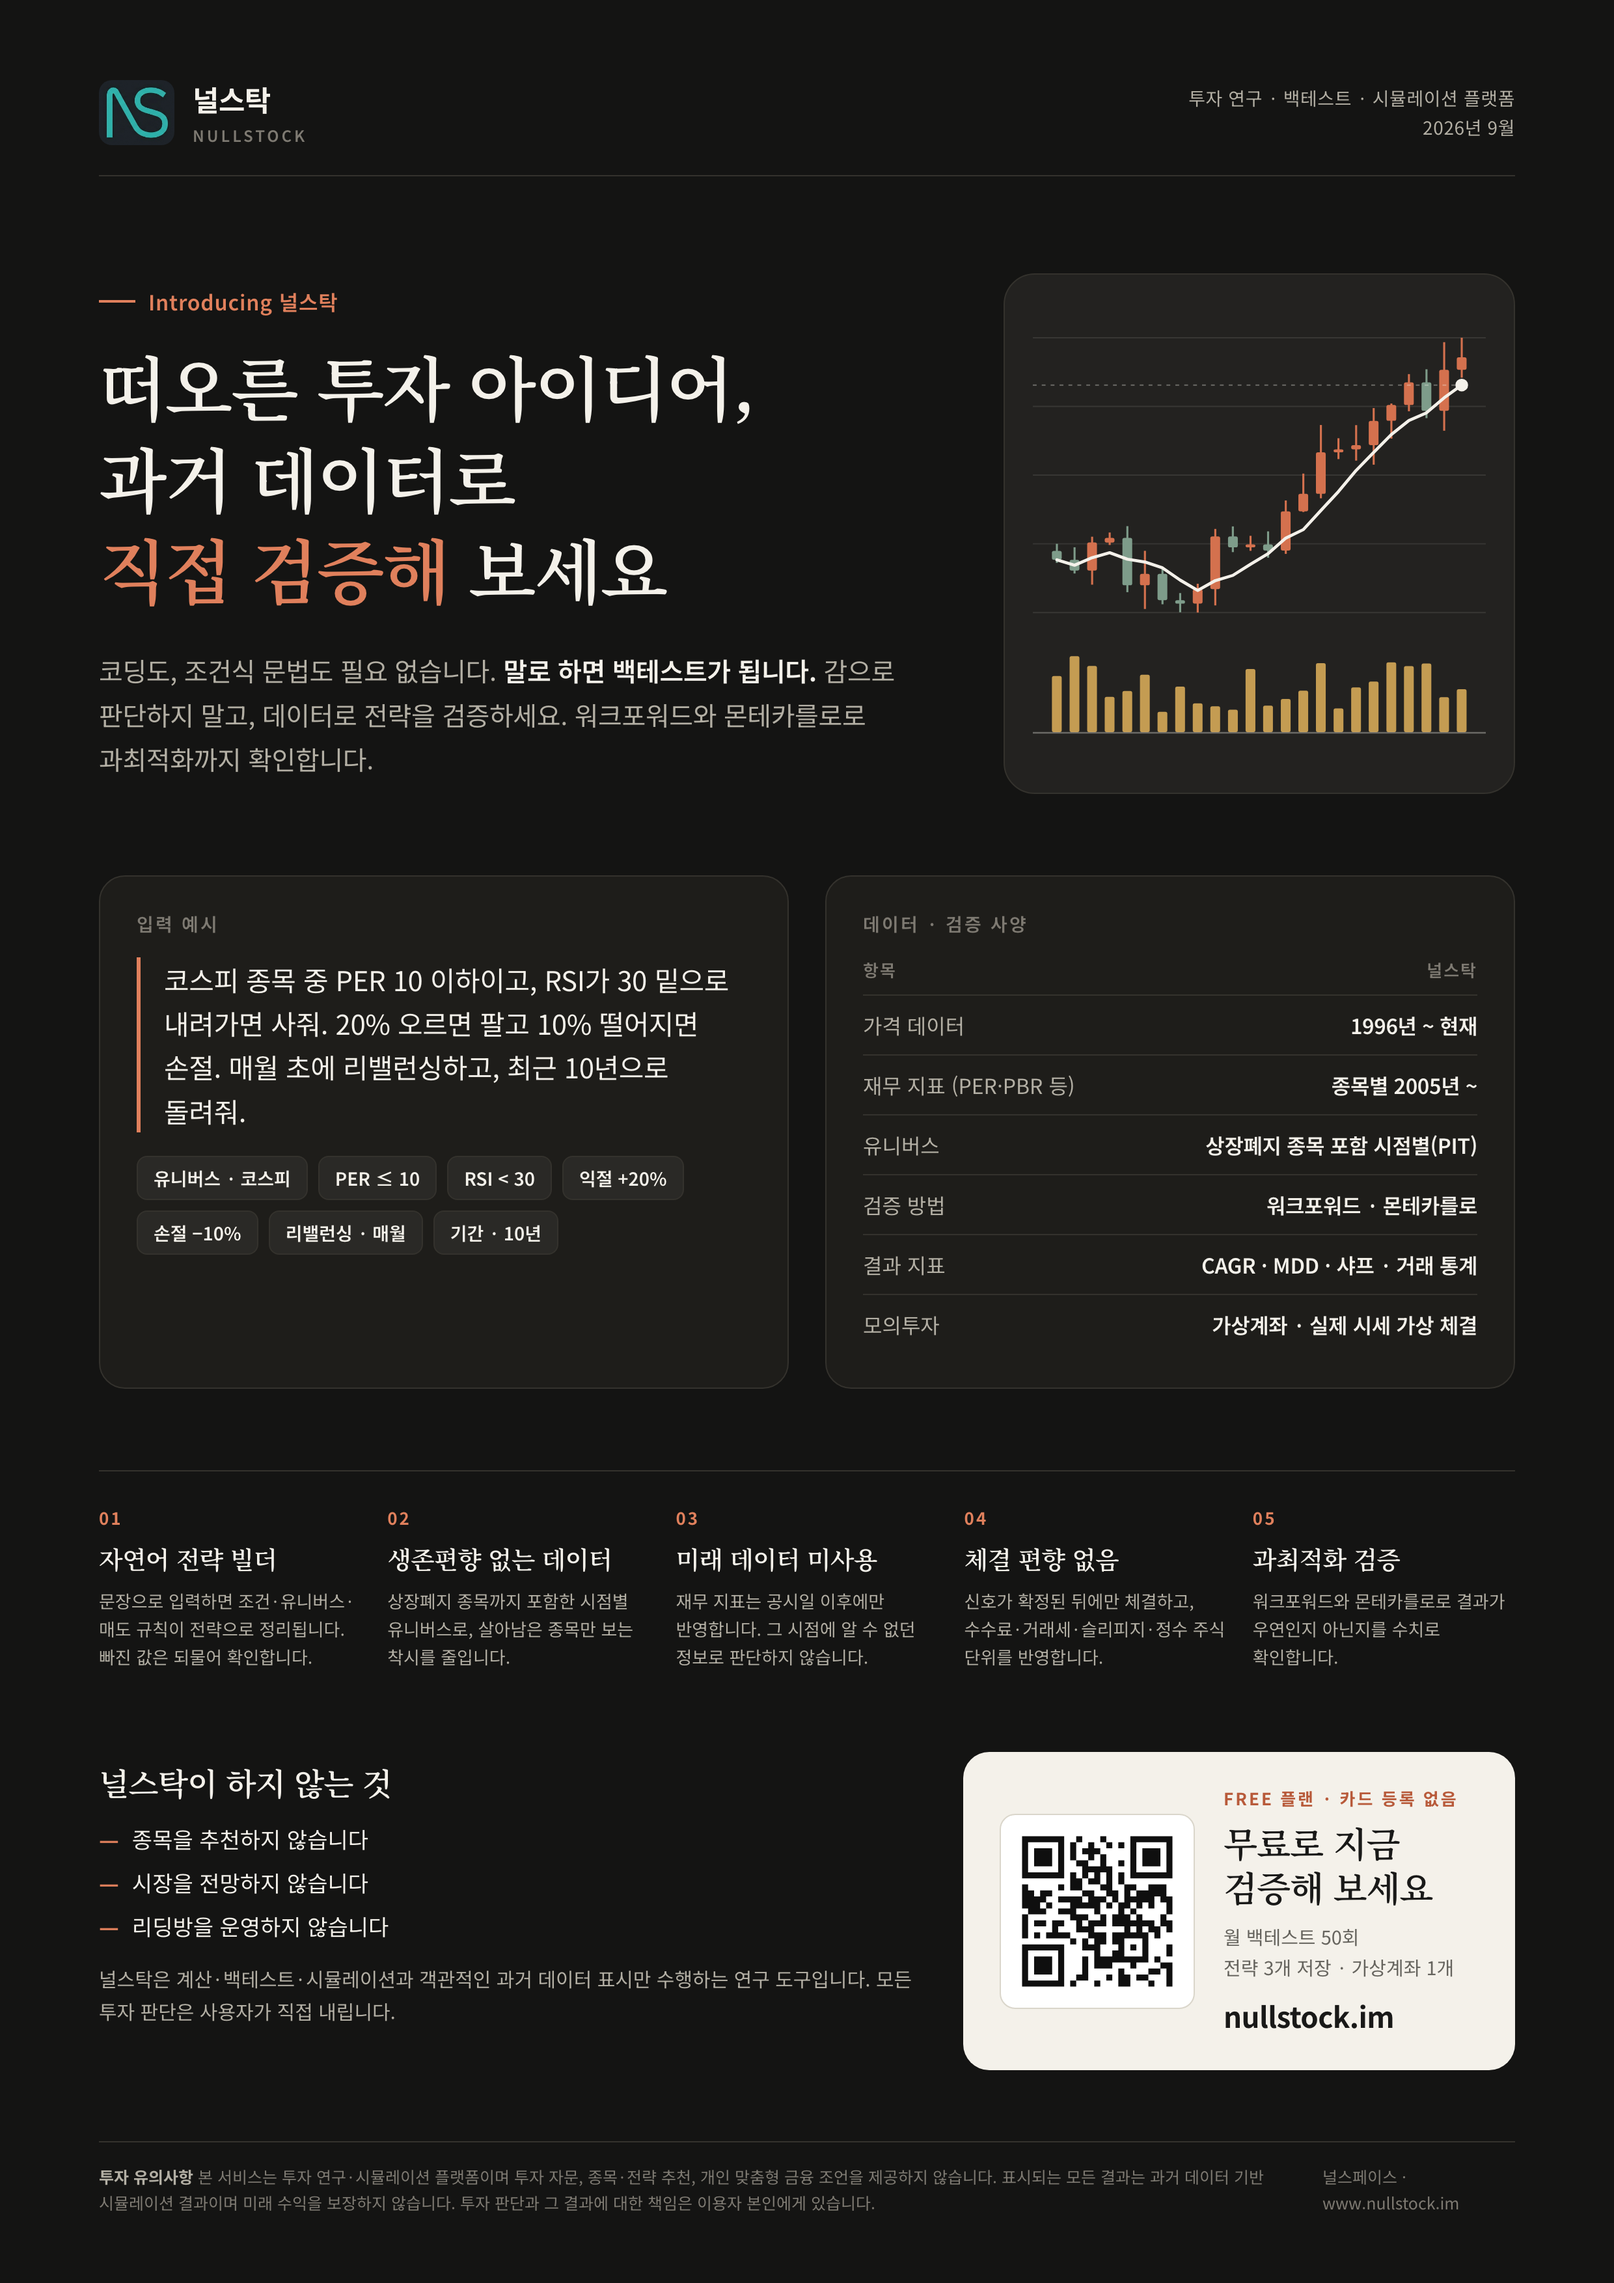
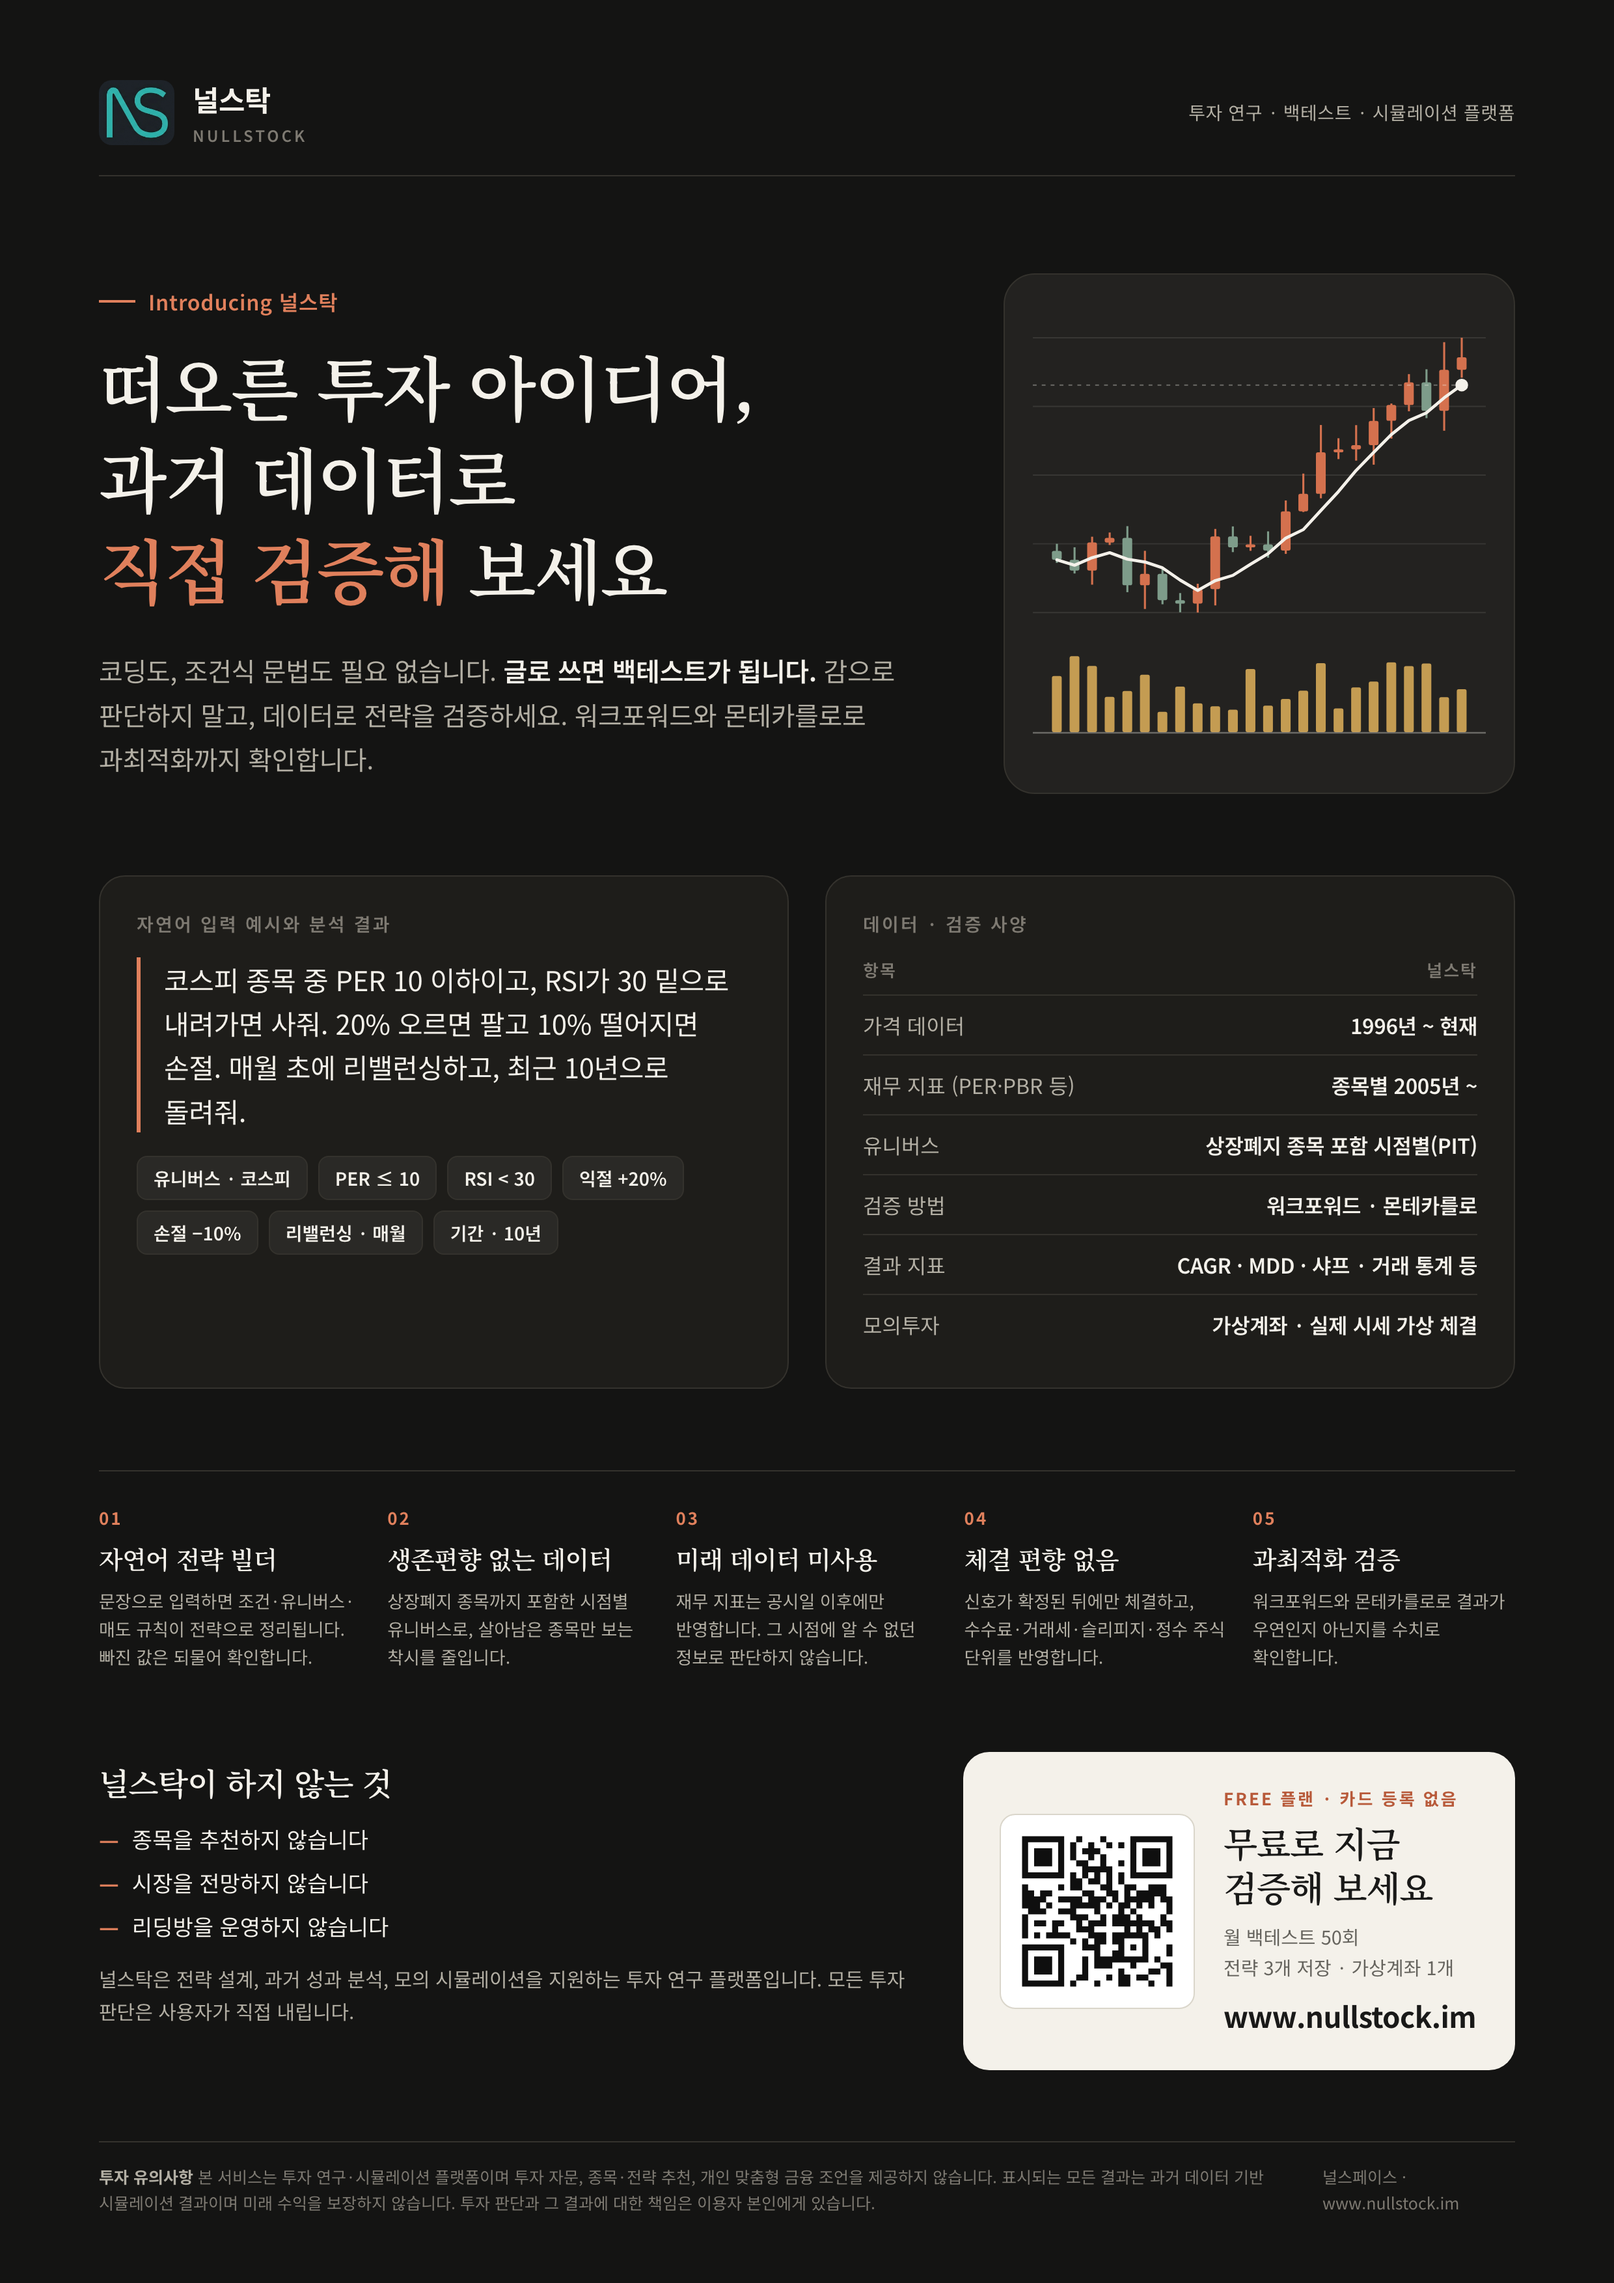
docs(marketing): 전단지 문구 다듬기 + KOSPI200 캐시 갱신
워킹트리에 남아 있던 변경을 함께 커밋한다.
- 전단지: 발행월 삭제, "말로 하면"→"글로 쓰면", 입력 예시 제목 구체화,
  결과 지표 "등" 추가, 소개 문구를 연구 플랫폼 표현으로, URL을 www 포함으로.
  PNG도 같은 내용으로 재생성됨.
- data/kospi200-cache.json: 런타임이 갱신한 fetched_at 타임스탬프.

diff --git a/docs/marketing/flyer_intro_dark.html b/docs/marketing/flyer_intro_dark.html
@@ -60,14 +60,14 @@
 <div class="page">
   <header>
     <div class="brand"><img src="mark.png" alt=""><div class="n">널스탁<small>NULLSTOCK</small></div></div>
-    <div class="meta">투자 연구 · 백테스트 · 시뮬레이션 플랫폼<br>2026년 9월</div>
+    <div class="meta">투자 연구 · 백테스트 · 시뮬레이션 플랫폼</div>
   </header>
 
   <section class="hero">
     <div>
       <div class="eyebrow">Introducing 널스탁</div>
       <h1 class="serif">떠오른 투자 아이디어,<br>과거 데이터로<br><em>직접 검증해</em> 보세요</h1>
-      <p class="lead">코딩도, 조건식 문법도 필요 없습니다. <b>말로 하면 백테스트가 됩니다.</b>
+      <p class="lead">코딩도, 조건식 문법도 필요 없습니다. <b>글로 쓰면 백테스트가 됩니다.</b>
       감으로 판단하지 말고, 데이터로 전략을 검증하세요. 워크포워드와 몬테카를로로 과최적화까지 확인합니다.</p>
     </div>
     <div class="art"><svg viewBox="0 0 400 400" preserveAspectRatio="xMidYMid meet"><line x1="22" y1="46.0" x2="378" y2="46.0" stroke="#F4F1EA" stroke-opacity=".10"/><line x1="22" y1="100.0" x2="378" y2="100.0" stroke="#F4F1EA" stroke-opacity=".10"/><line x1="22" y1="154.0" x2="378" y2="154.0" stroke="#F4F1EA" stroke-opacity=".10"/><line x1="22" y1="208.0" x2="378" y2="208.0" stroke="#F4F1EA" stroke-opacity=".10"/><line x1="22" y1="262.0" x2="378" y2="262.0" stroke="#F4F1EA" stroke-opacity=".10"/><line x1="40.9" y1="208.0" x2="40.9" y2="223.0" stroke="#7E9C8A" stroke-width="1.6"/><rect x="37.0" y="213.5" width="7.7" height="7.1" rx="1.5" fill="#7E9C8A"/><line x1="54.8" y1="210.7" x2="54.8" y2="231.3" stroke="#7E9C8A" stroke-width="1.6"/><rect x="50.9" y="220.6" width="7.7" height="8.4" rx="1.5" fill="#7E9C8A"/><line x1="68.6" y1="202.4" x2="68.6" y2="240.1" stroke="#D4714E" stroke-width="1.6"/><rect x="64.7" y="206.9" width="7.7" height="22.1" rx="1.5" fill="#D4714E"/><line x1="82.4" y1="199.1" x2="82.4" y2="208.9" stroke="#D4714E" stroke-width="1.6"/><rect x="78.5" y="203.3" width="7.7" height="3.7" rx="1.5" fill="#D4714E"/><line x1="96.3" y1="194.1" x2="96.3" y2="246.0" stroke="#7E9C8A" stroke-width="1.6"/><rect x="92.4" y="203.3" width="7.7" height="37.3" rx="1.5" fill="#7E9C8A"/><line x1="110.1" y1="213.5" x2="110.1" y2="259.2" stroke="#D4714E" stroke-width="1.6"/><rect x="106.2" y="231.6" width="7.7" height="9.0" rx="1.5" fill="#D4714E"/><line x1="123.9" y1="226.6" x2="123.9" y2="255.5" stroke="#7E9C8A" stroke-width="1.6"/><rect x="120.0" y="231.6" width="7.7" height="20.7" rx="1.5" fill="#7E9C8A"/><line x1="137.8" y1="246.7" x2="137.8" y2="261.8" stroke="#7E9C8A" stroke-width="1.6"/><rect x="133.9" y="252.3" width="7.7" height="2.7" rx="1.5" fill="#7E9C8A"/><line x1="151.6" y1="239.4" x2="151.6" y2="262.0" stroke="#D4714E" stroke-width="1.6"/><rect x="147.7" y="243.7" width="7.7" height="11.3" rx="1.5" fill="#D4714E"/><line x1="165.4" y1="196.3" x2="165.4" y2="256.4" stroke="#D4714E" stroke-width="1.6"/><rect x="161.5" y="202.2" width="7.7" height="41.4" rx="1.5" fill="#D4714E"/><line x1="179.2" y1="194.3" x2="179.2" y2="214.5" stroke="#7E9C8A" stroke-width="1.6"/><rect x="175.4" y="202.2" width="7.7" height="8.6" rx="1.5" fill="#7E9C8A"/><line x1="193.1" y1="201.7" x2="193.1" y2="213.5" stroke="#D4714E" stroke-width="1.6"/><rect x="189.2" y="208.4" width="7.7" height="2.4" rx="1.5" fill="#D4714E"/><line x1="206.9" y1="198.2" x2="206.9" y2="218.9" stroke="#7E9C8A" stroke-width="1.6"/><rect x="203.0" y="208.4" width="7.7" height="4.9" rx="1.5" fill="#7E9C8A"/><line x1="220.8" y1="173.9" x2="220.8" y2="215.9" stroke="#D4714E" stroke-width="1.6"/><rect x="216.9" y="182.5" width="7.7" height="30.8" rx="1.5" fill="#D4714E"/><line x1="234.6" y1="152.8" x2="234.6" y2="183.0" stroke="#D4714E" stroke-width="1.6"/><rect x="230.7" y="168.7" width="7.7" height="13.8" rx="1.5" fill="#D4714E"/><line x1="248.4" y1="114.6" x2="248.4" y2="172.2" stroke="#D4714E" stroke-width="1.6"/><rect x="244.5" y="136.1" width="7.7" height="32.6" rx="1.5" fill="#D4714E"/><line x1="262.2" y1="125.0" x2="262.2" y2="141.4" stroke="#D4714E" stroke-width="1.6"/><rect x="258.4" y="133.7" width="7.7" height="2.4" rx="1.5" fill="#D4714E"/><line x1="276.1" y1="114.7" x2="276.1" y2="142.6" stroke="#D4714E" stroke-width="1.6"/><rect x="272.2" y="130.4" width="7.7" height="3.3" rx="1.5" fill="#D4714E"/><line x1="289.9" y1="101.3" x2="289.9" y2="145.8" stroke="#D4714E" stroke-width="1.6"/><rect x="286.0" y="111.4" width="7.7" height="19.0" rx="1.5" fill="#D4714E"/><line x1="303.8" y1="97.7" x2="303.8" y2="125.3" stroke="#D4714E" stroke-width="1.6"/><rect x="299.9" y="98.9" width="7.7" height="12.4" rx="1.5" fill="#D4714E"/><line x1="317.6" y1="74.6" x2="317.6" y2="103.8" stroke="#D4714E" stroke-width="1.6"/><rect x="313.7" y="81.1" width="7.7" height="17.8" rx="1.5" fill="#D4714E"/><line x1="331.4" y1="70.8" x2="331.4" y2="109.2" stroke="#7E9C8A" stroke-width="1.6"/><rect x="327.5" y="81.1" width="7.7" height="22.4" rx="1.5" fill="#7E9C8A"/><line x1="345.3" y1="49.5" x2="345.3" y2="119.1" stroke="#D4714E" stroke-width="1.6"/><rect x="341.4" y="71.2" width="7.7" height="32.2" rx="1.5" fill="#D4714E"/><line x1="359.1" y1="46.0" x2="359.1" y2="77.4" stroke="#D4714E" stroke-width="1.6"/><rect x="355.2" y="61.4" width="7.7" height="9.8" rx="1.5" fill="#D4714E"/><polyline points="40.9,220.6 54.8,224.8 68.6,218.9 82.4,215.0 96.3,220.1 110.1,222.3 123.9,226.9 137.8,236.5 151.6,244.6 165.4,236.9 179.2,232.8 193.1,224.0 206.9,215.7 220.8,203.5 234.6,196.8 248.4,181.8 262.2,166.9 276.1,150.3 289.9,136.1 303.8,122.1 317.6,111.1 331.4,105.0 345.3,93.2 359.1,83.2" fill="none" stroke="#F4F1EA" stroke-width="2.4" stroke-linejoin="round" stroke-linecap="round"/><line x1="22" y1="83.2" x2="359.1" y2="83.2" stroke="#F4F1EA" stroke-opacity=".35" stroke-dasharray="3 4"/><circle cx="359.1" cy="83.2" r="5" fill="#F4F1EA"/><rect x="37.0" y="311.9" width="7.7" height="44.1" rx="1.5" fill="#E0B25C" opacity=".85"/><rect x="50.9" y="296.3" width="7.7" height="59.7" rx="1.5" fill="#E0B25C" opacity=".85"/><rect x="64.7" y="304.0" width="7.7" height="52.0" rx="1.5" fill="#E0B25C" opacity=".85"/><rect x="78.5" y="328.2" width="7.7" height="27.8" rx="1.5" fill="#E0B25C" opacity=".85"/><rect x="92.4" y="323.6" width="7.7" height="32.4" rx="1.5" fill="#E0B25C" opacity=".85"/><rect x="106.2" y="310.9" width="7.7" height="45.1" rx="1.5" fill="#E0B25C" opacity=".85"/><rect x="120.0" y="340.0" width="7.7" height="16.0" rx="1.5" fill="#E0B25C" opacity=".85"/><rect x="133.9" y="320.2" width="7.7" height="35.8" rx="1.5" fill="#E0B25C" opacity=".85"/><rect x="147.7" y="333.4" width="7.7" height="22.6" rx="1.5" fill="#E0B25C" opacity=".85"/><rect x="161.5" y="335.7" width="7.7" height="20.3" rx="1.5" fill="#E0B25C" opacity=".85"/><rect x="175.4" y="338.3" width="7.7" height="17.7" rx="1.5" fill="#E0B25C" opacity=".85"/><rect x="189.2" y="306.4" width="7.7" height="49.6" rx="1.5" fill="#E0B25C" opacity=".85"/><rect x="203.0" y="335.2" width="7.7" height="20.8" rx="1.5" fill="#E0B25C" opacity=".85"/><rect x="216.9" y="329.9" width="7.7" height="26.1" rx="1.5" fill="#E0B25C" opacity=".85"/><rect x="230.7" y="323.4" width="7.7" height="32.6" rx="1.5" fill="#E0B25C" opacity=".85"/><rect x="244.5" y="301.8" width="7.7" height="54.2" rx="1.5" fill="#E0B25C" opacity=".85"/><rect x="258.4" y="337.4" width="7.7" height="18.6" rx="1.5" fill="#E0B25C" opacity=".85"/><rect x="272.2" y="320.8" width="7.7" height="35.2" rx="1.5" fill="#E0B25C" opacity=".85"/><rect x="286.0" y="316.3" width="7.7" height="39.7" rx="1.5" fill="#E0B25C" opacity=".85"/><rect x="299.9" y="301.2" width="7.7" height="54.8" rx="1.5" fill="#E0B25C" opacity=".85"/><rect x="313.7" y="304.1" width="7.7" height="51.9" rx="1.5" fill="#E0B25C" opacity=".85"/><rect x="327.5" y="302.1" width="7.7" height="53.9" rx="1.5" fill="#E0B25C" opacity=".85"/><rect x="341.4" y="328.5" width="7.7" height="27.5" rx="1.5" fill="#E0B25C" opacity=".85"/><rect x="355.2" y="322.3" width="7.7" height="33.7" rx="1.5" fill="#E0B25C" opacity=".85"/><line x1="22" y1="356.5" x2="378" y2="356.5" stroke="#F4F1EA" stroke-opacity=".35" stroke-width="1.2"/></svg></div>
@@ -75,7 +75,7 @@
 
   <section class="row2">
     <div class="card">
-      <h3>입력 예시</h3>
+      <h3>자연어 입력 예시와 분석 결과</h3>
       <p class="quote">코스피 종목 중 PER 10 이하이고, RSI가 30 밑으로 내려가면 사줘. 20% 오르면 팔고 10% 떨어지면 손절. 매월 초에 리밸런싱하고, 최근 10년으로 돌려줘.</p>
       <div class="parsed">
         <span class="chip">유니버스 · 코스피</span><span class="chip">PER ≤ 10</span><span class="chip">RSI &lt; 30</span>
@@ -90,7 +90,7 @@
         <tr><td>재무 지표 (PER·PBR 등)</td><td>종목별 2005년 ~</td></tr>
         <tr><td>유니버스</td><td>상장폐지 종목 포함 시점별(PIT)</td></tr>
         <tr><td>검증 방법</td><td>워크포워드 · 몬테카를로</td></tr>
-        <tr><td>결과 지표</td><td>CAGR · MDD · 샤프 · 거래 통계</td></tr>
+        <tr><td>결과 지표</td><td>CAGR · MDD · 샤프 · 거래 통계 등</td></tr>
         <tr><td>모의투자</td><td>가상계좌 · 실제 시세 가상 체결</td></tr>
       </table>
     </div>
@@ -108,7 +108,7 @@
     <div class="nots">
       <h3 class="serif">널스탁이 하지 않는 것</h3>
       <ul><li>종목을 추천하지 않습니다</li><li>시장을 전망하지 않습니다</li><li>리딩방을 운영하지 않습니다</li></ul>
-      <p>널스탁은 계산·백테스트·시뮬레이션과 객관적인 과거 데이터 표시만 수행하는 연구 도구입니다. 모든 투자 판단은 사용자가 직접 내립니다.</p>
+      <p>널스탁은 전략 설계, 과거 성과 분석, 모의 시뮬레이션을 지원하는 투자 연구 플랫폼입니다. 모든 투자 판단은 사용자가 직접 내립니다.</p>
     </div>
     <div class="cta">
       <div class="qr"><img src="qr.svg" alt="QR"></div>
@@ -116,7 +116,7 @@
         <div class="free">FREE 플랜 · 카드 등록 없음</div>
         <h3 class="serif">무료로 지금<br>검증해 보세요</h3>
         <ul><li>월 백테스트 50회</li><li>전략 3개 저장 · 가상계좌 1개</li></ul>
-        <div class="url">nullstock.im</div>
+        <div class="url">www.nullstock.im</div>
       </div>
     </div>
   </section>
